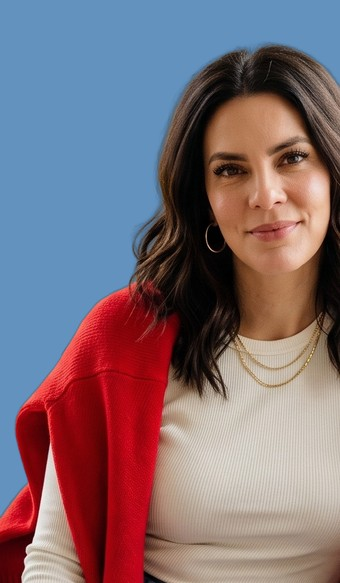
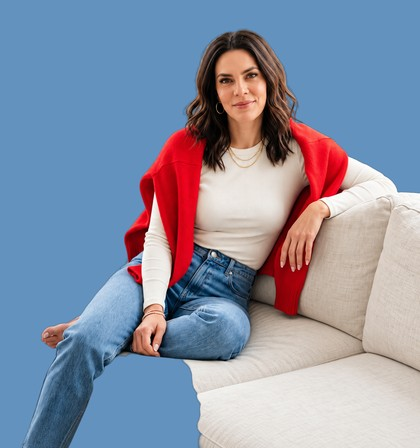
Swap in Ally's cleaner cutout, couch included
Used the pre-cut photo she provided (background removed, couch and
cushion still in frame) instead of my own rembg pass over the room
photo. Widened the hero photo card slightly to fit the wider
composition.

Claude-Session: https://claude.ai/code/session_01Ub5HzaR6wqoeVRTXYQp5zk

diff --git a/index.html b/index.html
@@ -152,7 +152,7 @@ nav.menu-open { backdrop-filter: none; -webkit-backdrop-filter: none; }
   color: var(--cream); margin-bottom: 28px;
 }
 .hero-photo-card {
-  width: min(280px, 52vw);
+  width: min(360px, 62vw);
   margin: 6px auto 20px;
 }
 .hero-photo { width: 100%; display: block; }
